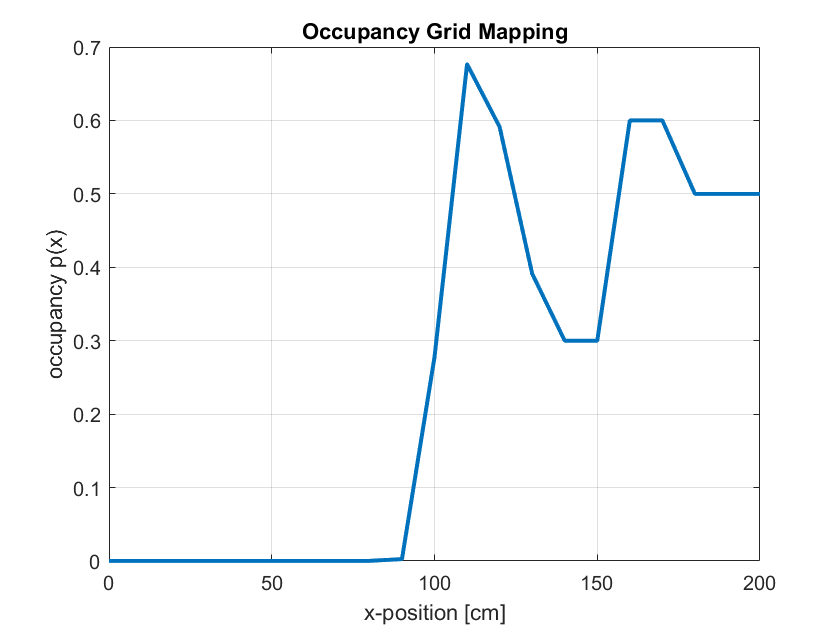
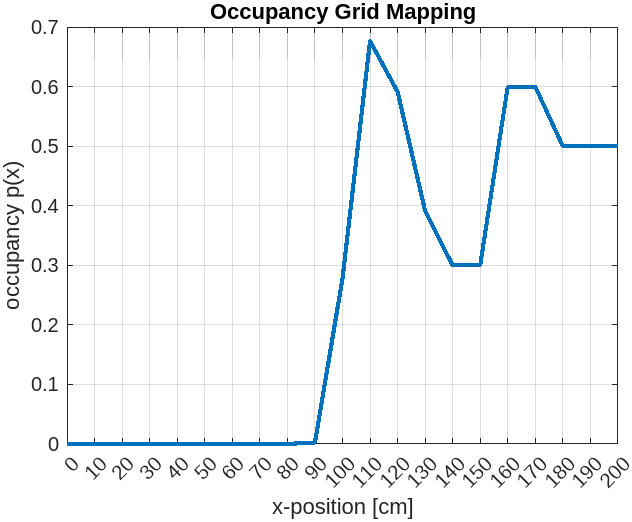
update q2 with new figure with grids of 10 cm

diff --git a/main.tex b/main.tex
@@ -10,12 +10,21 @@
 \usepackage{listings}
 \usepackage{hyperref}
 \usepackage{float}
+\usepackage{xcolor}
 
 \lstset{
-    basicstyle=\ttfamily,
-    columns=fullflexible,
-    frame=single,
+    language=Matlab,
+    basicstyle=\ttfamily\small,
     breaklines=true,
+    keywordstyle=\color{blue},
+    commentstyle=\color{green},
+    stringstyle=\color{purple},
+    numbers=left,
+    numberstyle=\tiny\color{gray},
+    stepnumber=1,
+    showspaces=false,
+    showstringspaces=false,
+    frame=single,
     postbreak=\mbox{\textcolor{red}{$\hookrightarrow$}\space},
 }
 
@@ -136,6 +145,56 @@
             \caption{Probability Mass Function (PMF) of the occupancy grid map}
             \label{fig:image1} % Label for referencing the figure
         \end{figure}
+
+        \begin{lstlisting}[language=Matlab, caption=Occupancy Grid Mapping, label={lst:code}]
+function occupancy_grid_mapping()
+% Define the inverse sensor model
+function log_odds = inv_sensor_model(z, c)
+    if c > z + 20
+        % No update if beyond 20 cm of the measurement
+        log_odds = 0;
+    elseif c > z
+        % Occupied with probability 0.6
+        log_odds = log(0.6 / (1 - 0.6));
+    else
+        % Free with probability 0.3
+        log_odds = log(0.3 / (1 - 0.3));
+    end
+end
+
+% Cell positions in cm (0 to 200 with step of 10)
+c = 0:10:200;
+
+% Map belief in log-odds form
+logodds = zeros(1, length(c));
+
+% Measurements in cm
+meas = [101, 82, 91, 112, 99, 151, 96, 85, 99, 105];
+
+% Prior in log-odds form, since p = 0.5, log-odds is 0
+prior = log(0.5 / (1 - 0.5));
+disp(['prior:', num2str(prior)]);
+
+% Update map with each measurement
+for i = 1:length(meas)
+    % Update each cell
+    for j = 1:length(c)
+        % Update log-odds using the inverse sensor model
+        logodds(j) = logodds(j) - prior + inv_sensor_model(meas(i), c(j));
+    end
+end
+
+% Convert log-odds to probabilities
+m = 1 - 1 ./ (1 + exp(logodds));
+
+figure;
+plot(c, m, 'LineWidth', 2);
+xlabel('x-position [cm]');
+ylabel('occupancy p(x)');
+title('Occupancy Grid Mapping');
+grid on;
+end        
+                        \end{lstlisting}
     \end{solution}
 
     \question[25]
